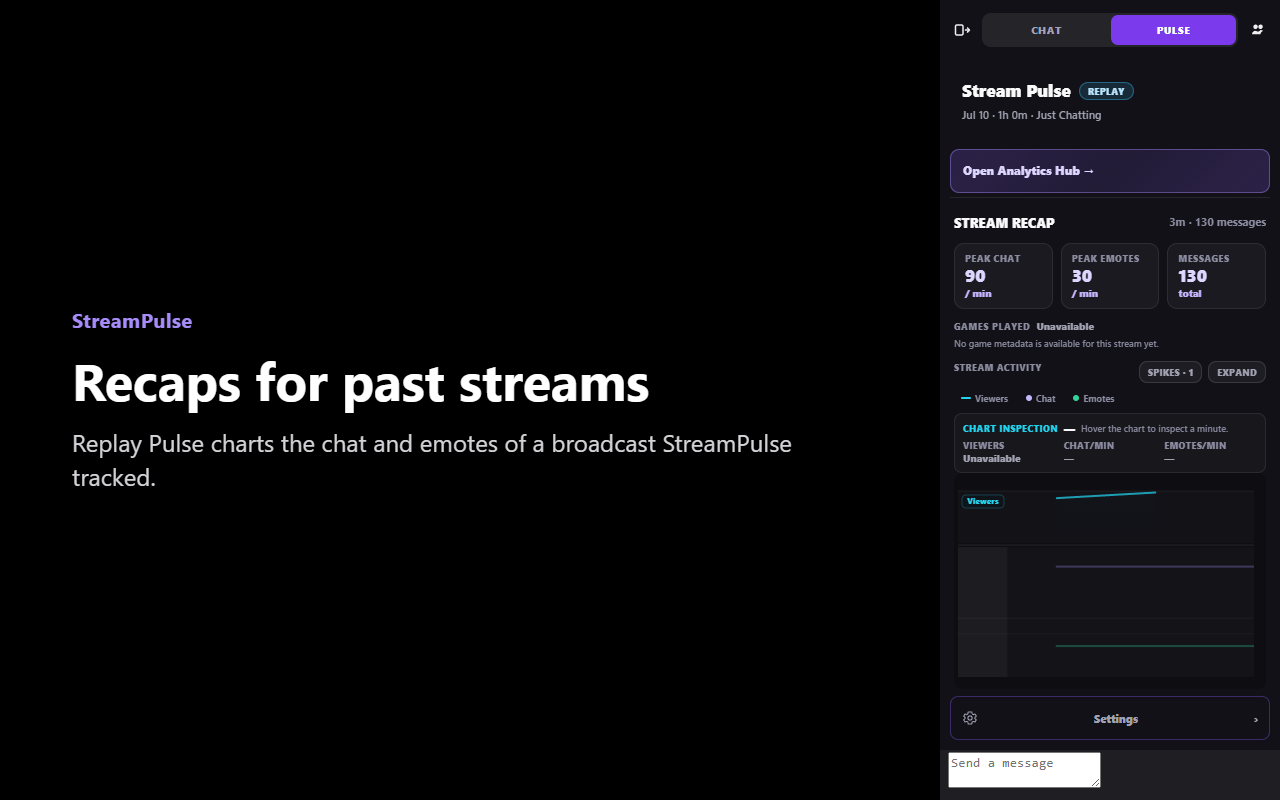
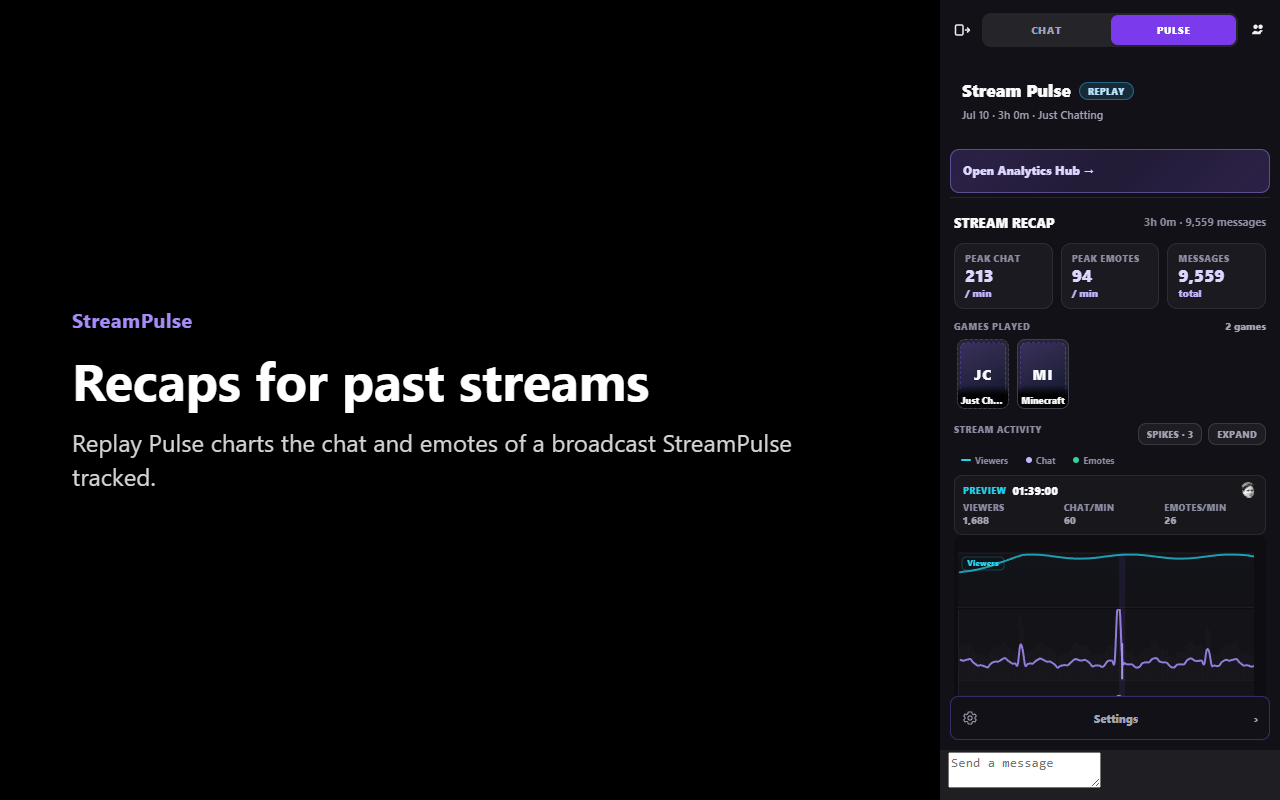
store(cws): recapture frames 03 and 04; win32 changelog image
- 03-vod-replay: one synthetic three-hour VOD, so the Replay header
  (Jul 10 · 3h 0m · Just Chatting), the recap (3h 0m), Games played
  (Just Chatting, Minecraft) and a full chart with a pointed-at minute
  agree. It was "1h 0m" over "3m", "no game metadata" and a flat chart.
- 04-quick-settings: the Supporter card now shows the Crown pile (#80),
  a crest and emotes with no chat column, and the caption says the
  cosmetics are only yours, never in chat.
- Both recaptured from a local RC (#75 plus every 0.2.2 PR tip,
  including #80 d0b9f50c and #89 47af9bd4, never pushed) on the
  development build, each viewed.
- full-settings-changelog win32: 0.2.2 shows Installed with no date and
  the new bookmark and known-limitation lines (named test only, viewed).

diff --git a/tests/e2e/specs/cws-extension-screenshots.mocked.spec.ts b/tests/e2e/specs/cws-extension-screenshots.mocked.spec.ts
@@ -270,6 +270,11 @@ test.describe('CWS extension-on-Twitch screenshots', () => {
     await openTwitchVod(extension.page)
     await waitForPulseRoot(extension.page, 30_000)
     await assertPulseShadowContains(extension.page, /Minecraft/)
+    // Point at the biggest spike, so the chart's readout shows that minute.
+    const chart = extension.page.locator(`#${PULSE_ROOT_ID} svg[data-testid="pulse-overview-chart"]`).first()
+    const box = await chart.boundingBox()
+    if (box) await extension.page.mouse.move(box.x + box.width * 0.54, box.y + box.height * 0.5)
+    await extension.page.waitForTimeout(400)
   
     await addCaption(extension.page, 'Recaps for past streams', 'Replay Pulse charts the chat and emotes of a broadcast StreamPulse tracked.')
     await writeExactStoreShot(extension.page, '03-vod-replay.png')
